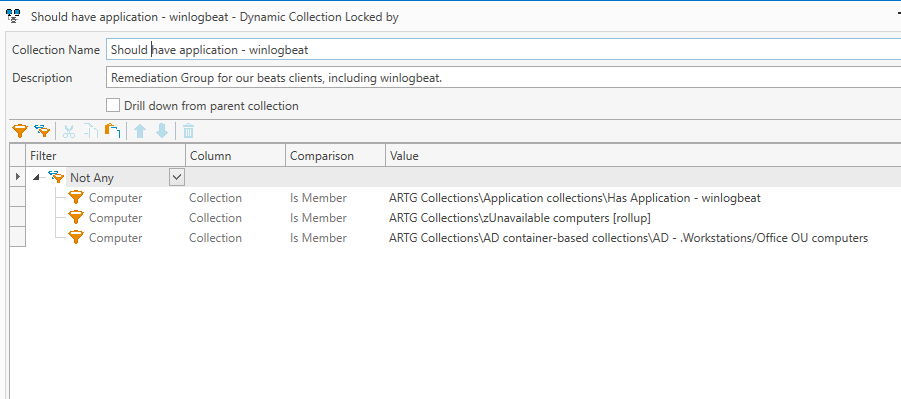
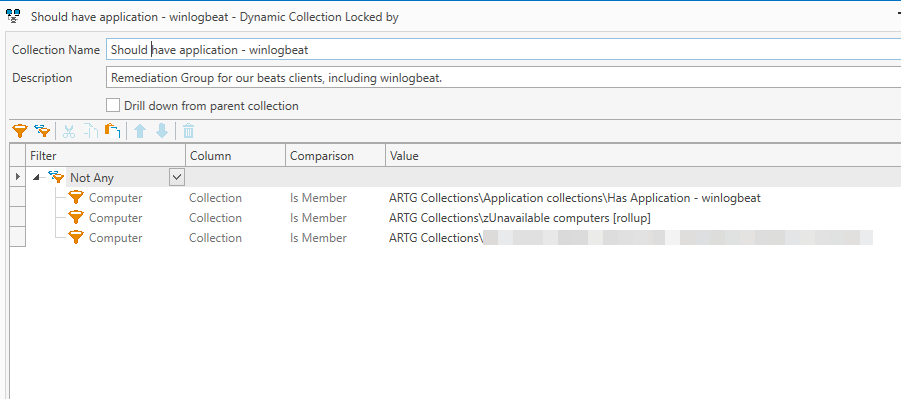
Fixing an image, publishing our post.

Changed region(s): [[0.5283, 0.5714, 0.9634, 0.6316]]

diff --git a/_posts/2024-02-08-PDQ-technique-remediation-deployments.md b/_posts/2024-02-08-PDQ-technique-remediation-deployments.md
@@ -64,7 +64,7 @@ This is our Remedation Group, our dynamic group for identifying computers that l
 
 ![Image showing our dynamic remedation group configuration](/assets/images/24-02-pdq-remediation/misartg-pdq-rg-ex1-step2-remediation-group.png)
 
-This is a relatively simple group, getting every available computer in our environment except for the members of groups listed here, but you can really go nuts with inclusion or exclusion, and complicated set math, of anything you can detect with PDQ Inventory. 
+This is a relatively simple group, getting available computer in our environment except for the members of groups listed here, but you can really go nuts with inclusion or exclusion of groups, combined with complicated set math, of anything you can detect with PDQ Inventory. 
 
 We like to exclude unavailable computers[^fn-temporarilyunavailablecomputers] from our deployment groups, to avoid errors and noise. 
 
@@ -102,14 +102,14 @@ Over time, assuming you have everything running well, new systems or systems tha
 
 PDQ Deploy is clever enough to skip deployments that have 0 members in the targeted group, which is how most of our Remediation Deployments tend to go. 
 
-### Remediation Deployment Ideas ###
+### Ideas ###
 
 You probably have your own ideas of how this could be used in your area, but we use Remediation Deployments for the following in our environment:
 
-- Ensuring our enterprise security software is installed and active site-wide. We do a few software installs, post-install software configurations and security baseline deployments with this approach. 
+- Ensuring our enterprise security software is installed and active site-wide. We do a half-dozen software installs, some post-install software configurations and some security baselining with this approach. 
 - Ensuring our VMware virtual machines have the latest VMware Tools installed. 
 - Copying down shared printer drivers for computers that are missing them. 
-- Targeting computers that failed to successfully complete their weekly maintenance jobs to try them again near the end of our maintenance windows. We also have a remediation deployment to force a reboot on machines that require one in our maintenance window as well. 
+- Targeting computers that failed to successfully complete their weekly maintenance jobs to try again near the end of our maintenance windows. We also have a remediation deployment to force a reboot on machines that require one in our maintenance window as well. 
 
 
 ---
